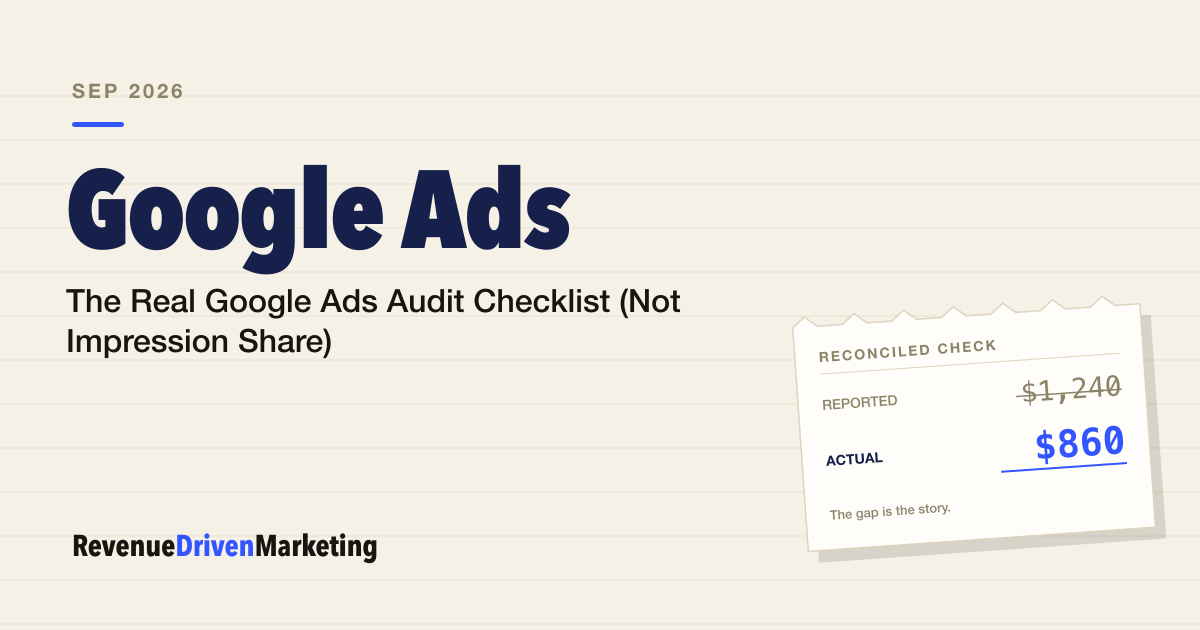
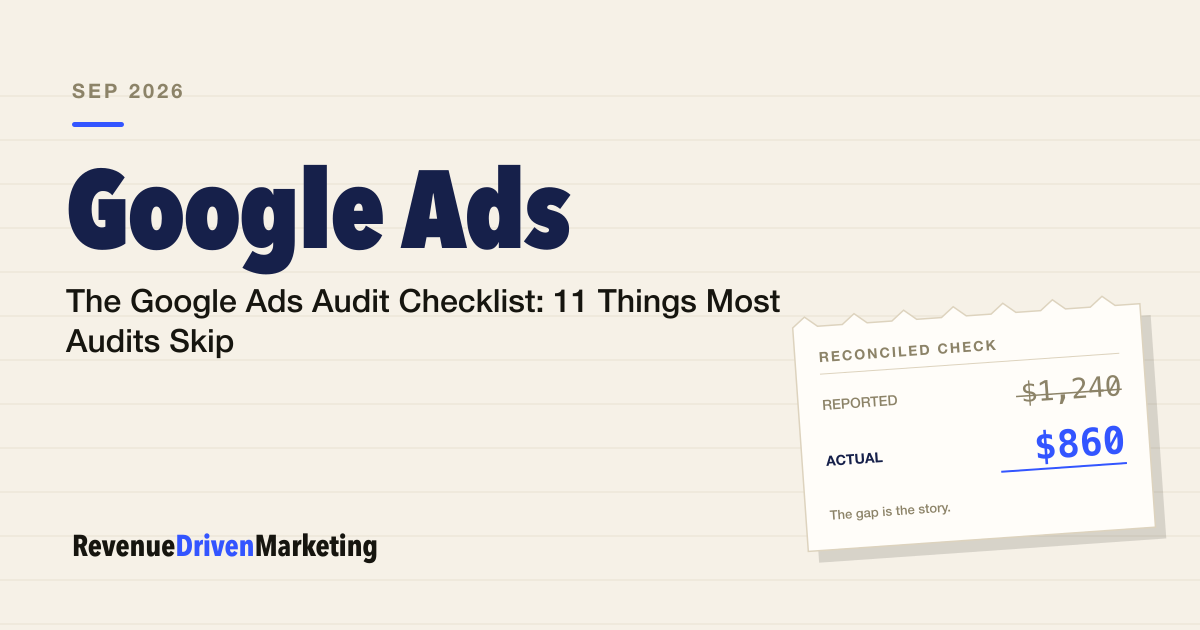
Fix headline logic: drop the "Not Impression Share" callback
That phrase only makes sense after reading the post's own intro
paragraph, which mentions impression-share checks as an example of a
fake audit. A headline has to stand alone before anyone's read that.
Replaced with a concrete, accurate hook: the post now actually covers
11 distinct checks, so "11 Things Most Audits Skip" states a real,
specific fact about the content instead of requiring inside context.
Still 58 characters.

Changed region(s): [[0.0617, 0.4524, 0.6475, 0.573]]

diff --git a/src/content/blog/how-to-audit-a-google-ads-account.md b/src/content/blog/how-to-audit-a-google-ads-account.md
@@ -1,6 +1,6 @@
 ---
-title: 'The Real Google Ads Audit Checklist (Not Impression Share)'
-description: 'A real Google Ads audit checklist: conversion tracking, account structure, wasted spend, and the checks most "audits" skip entirely.'
+title: 'The Google Ads Audit Checklist: 11 Things Most Audits Skip'
+description: 'A real Google Ads audit checklist: conversion tracking, Quality Score, ad copy, budget pacing, and the other checks most "audits" skip entirely.'
 pubDate: 2026-09-06
 pillar: google-ads
 draft: false
